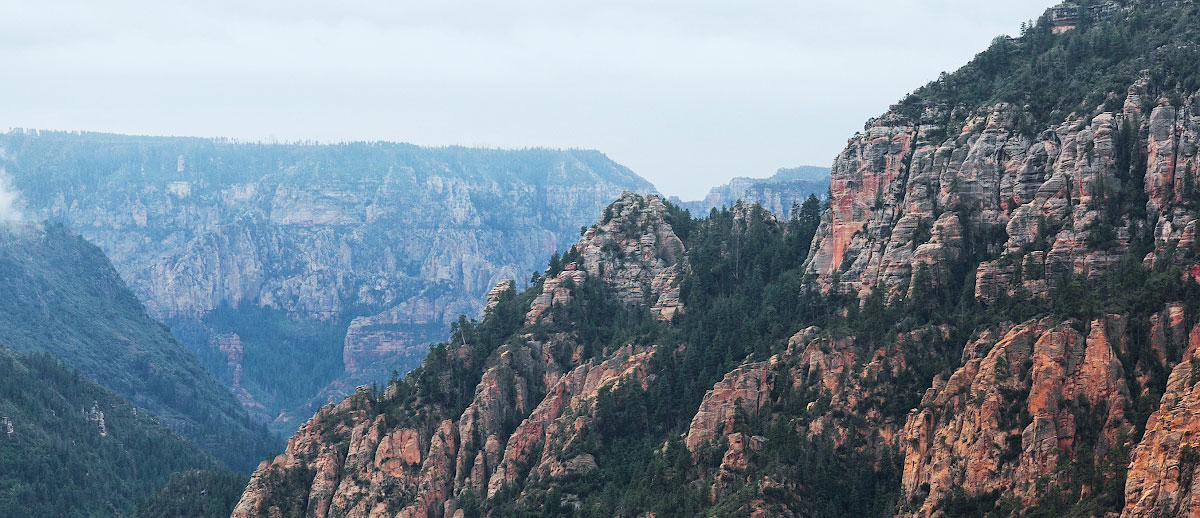
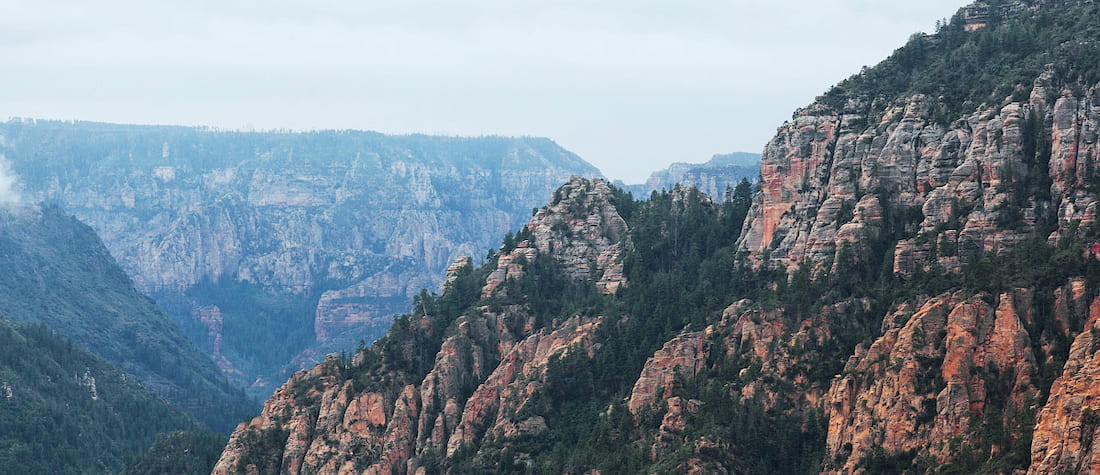
адаптация изображений

Changed region(s): [[0.9891, 0.4126, 1.0, 0.4421], [0.9582, 0.7663, 0.9891, 0.7958]]

diff --git a/source/index.html b/source/index.html
@@ -70,7 +70,11 @@
               <p class="advantages__description advantages__description--pic">Седона не аттракцион для туристов,<br>
                 там течет своя жизнь</p>
             </div>
-            <img src="img/photo-city.jpeg" width="800" height="404" alt="">
+            <picture class="advantage__picture">
+              <source media="(min-width: 1280px)" srcset="img/main-city-desktop@1x.jpg, img/main-city-desktop@2x.jpg 2x">
+              <source media="(min-width: 768px)" srcset="img/main-city-tablet@1x.jpg, img/main-city-tablet@2x.jpg 2x">
+              <img class="advantage__image" src="img/main-city-mobile@1x.jpg" srcset="img/main-city-mobile@2x.jpg 2x" alt="Гостиница Седона">
+            </picture>
           </div>
           <div class="advantages__city city-services">
           <ul class="city-services__list">
@@ -99,7 +103,11 @@
             <p class="advantages__description advantages__description--pic">Да, по нему можно пройти!<br>
               Если вы осмелитесь, конечно</p>
             </div>
-            <img src="img/photo-bridge.jpeg" width="800" height="404" alt="">
+            <picture class="advantage__picture">
+              <source media="(min-width: 1280px)" srcset="img/main-bridge-desktop@1x.jpg, img/main-bridge-desktop@2x.jpg 2x">
+              <source media="(min-width: 768px)" srcset="img/main-bridge-tablet@1x.jpg, img/main-bridge-tablet@2x.jpg 2x">
+              <img class="advantage__image" src="img/main-bridge-mobile@1x.jpg" srcset="img/main-bridge-mobile@2x.jpg 2x" alt="Мост дьявола">
+            </picture>
           </div>
         </li>
         <li class="advantages__item">

diff --git a/source/less/blocks/intro.less b/source/less/blocks/intro.less
@@ -1,10 +1,14 @@
 .intro {
   min-height: 389px;
   background-color: @color-gray;
-  background-image: url("../img/intro-triangle.svg"), url("../img/grand-canyon-desktop.jpg");
+  background-image: url("../img/intro-triangle.svg"), url("../img/grand-canyon-mobile.jpg");
   background-repeat: no-repeat;
   background-position: bottom, center;
   background-size: 1200px 57px, cover;
+
+  @media (min-resolution: 2dppx) {
+    background-image: url("../img/intro-triangle.svg"), url("../img/grand-canyon-mobile@2x.jpg");
+  }
 }
 
 .intro__image {
@@ -17,6 +21,11 @@
 @media (min-width: @tablet-width) {
   .intro {
     min-height: 518px;
+    background-image: url("../img/intro-triangle.svg"), url("../img/grand-canyon-desktop.jpg");
+
+    @media (min-resolution: 2dppx) {
+      background-image: url("../img/intro-triangle.svg"), url("../img/grand-canyon-desktop@2x.jpg");
+    }
   }
 
   .intro__image {

diff --git a/source/less/blocks/advantages.less b/source/less/blocks/advantages.less
@@ -62,10 +62,11 @@
   align-items: center;
 }
 
-.advantages__wrapper img {
+.advantage__picture {
   width: 320px;
   height: 260px;
   object-fit: cover;
+  margin: 0;
 }
 
 .advantages__title {
@@ -139,8 +140,8 @@
     padding-bottom: 23px;
   }
 
-  .advantages__wrapper img {
-    width: 512px;
+  .advantage__picture {
+    min-width: 512px;
     height: 256px;
   }
 
@@ -150,7 +151,7 @@
 }
 
 @media (min-width: @desktop-width) {
-  .advantages__wrapper img {
+  .advantage__picture {
     width: 800px;
   }
 
